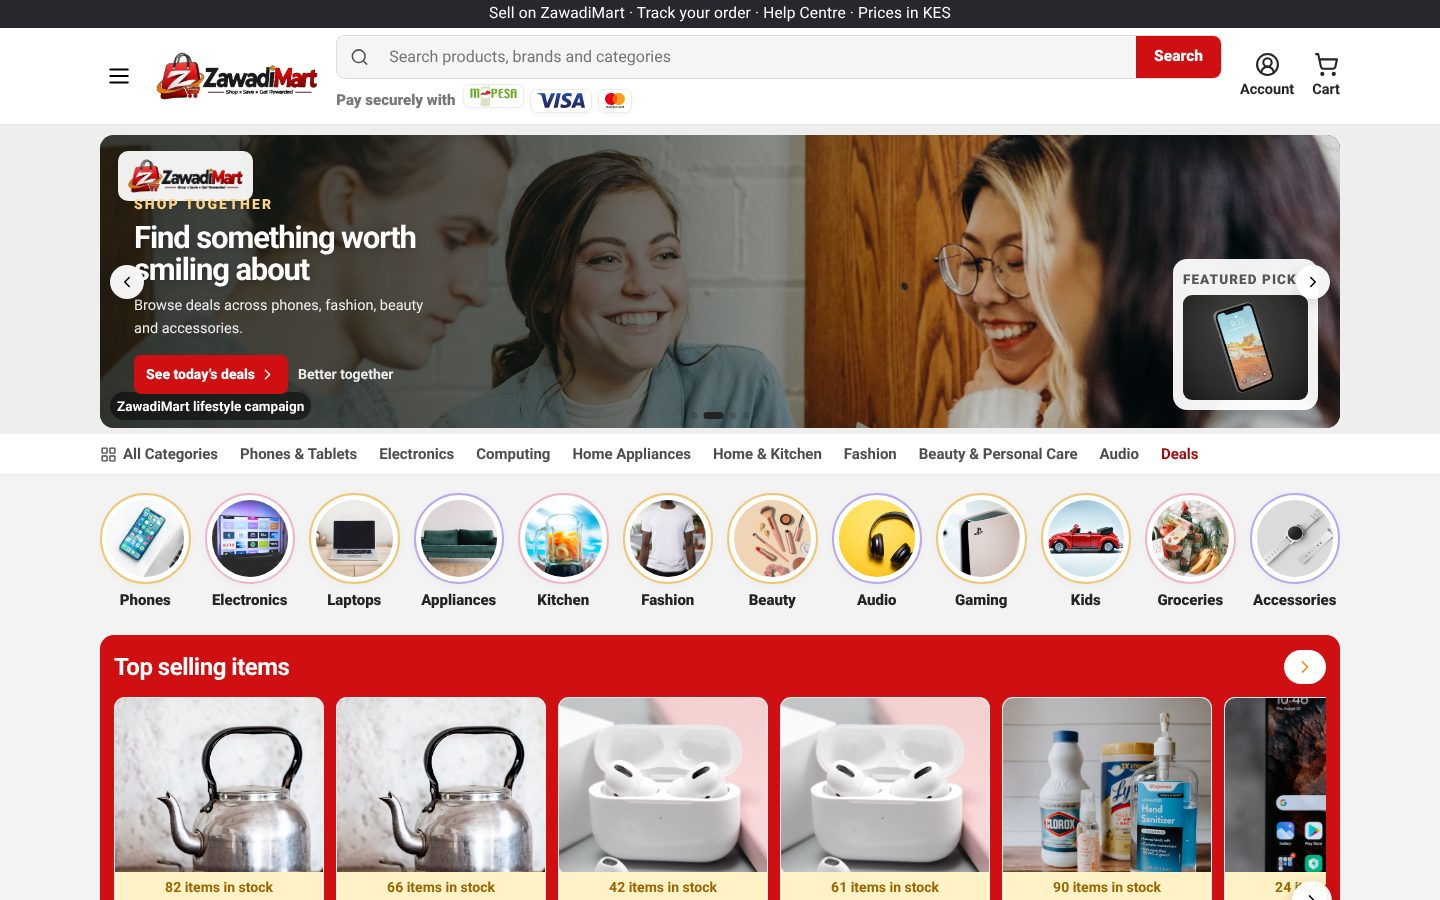
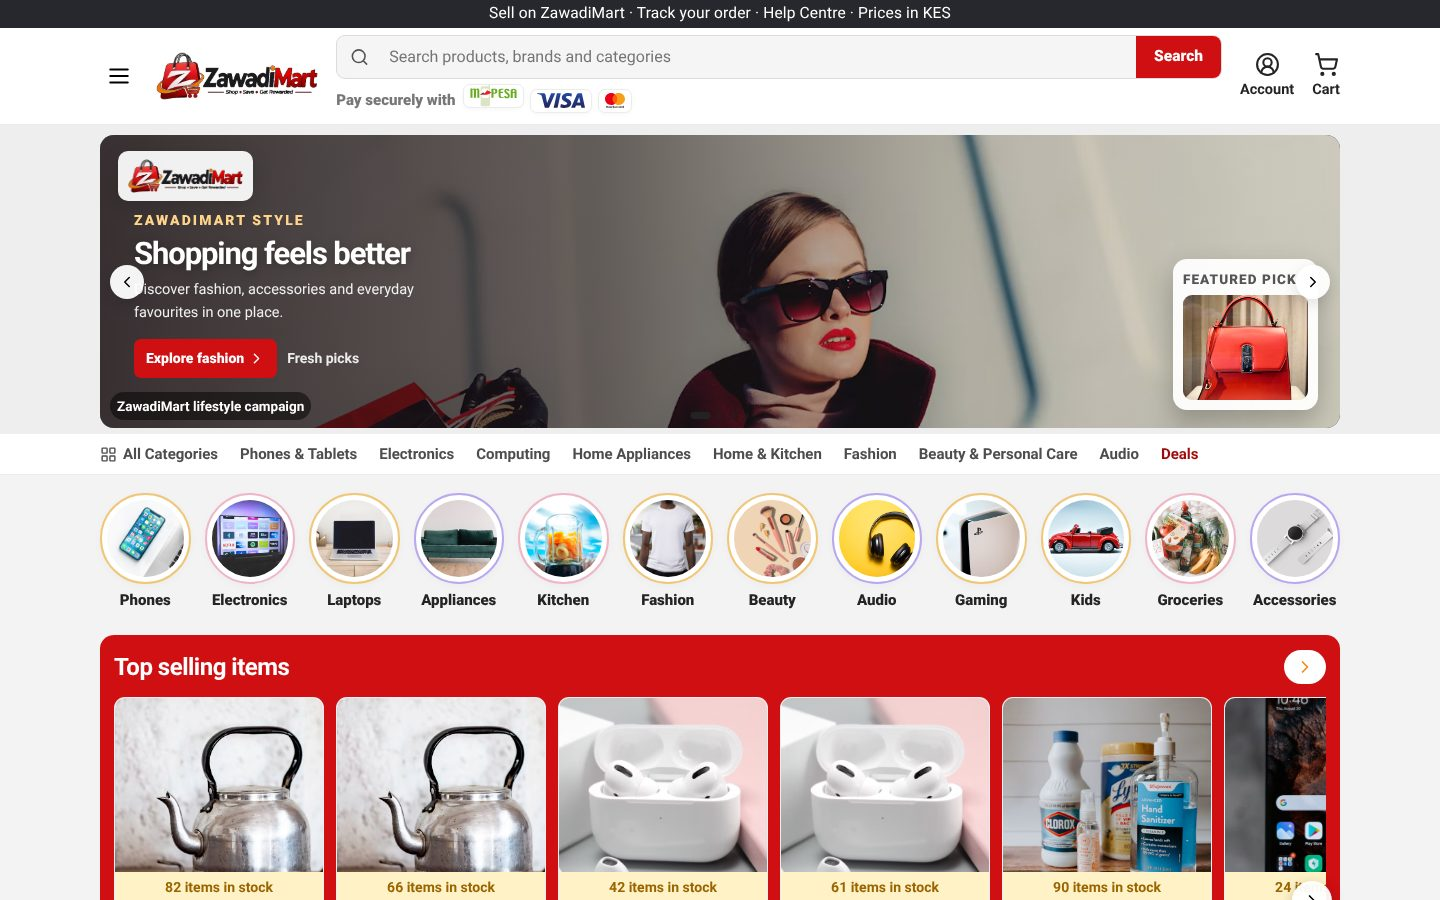
Daily digest needs no secret (GitHub OIDC); recapture ZawadiMart hero (#4)
- The digest workflow now sends GitHub's signed OIDC identity token instead
  of a shared secret. The server verifies the RS256 signature against
  GitHub's published keys and accepts only daily-digest.yml on main of this
  repository, run by schedule or by hand. No secret to set up anywhere;
  DIGEST_TOKEN remains an optional manual alternative.
- Recapture ZawadiMart on the hero's first slide, which is what visitors
  see on arrival (the earlier capture caught a slide mid-transition), under
  new file names so browsers cannot keep showing the cached old images.

Claude-Session: https://claude.ai/code/session_012KxN5P67R4dJoUADYbFazn

Changed region(s): [[0.0625, 0.1244, 0.9375, 0.4978]]

diff --git a/server.js b/server.js
@@ -403,9 +403,57 @@ async function sendNotifications(e) {
 }
 
 
-// Daily sales digest: a morning email listing the leads that need action. An outside scheduler (the GitHub
-// Actions workflow in .github/workflows/daily-digest.yml) calls POST /api/digest with DIGEST_TOKEN; Render's
-// free plan sleeps, so an in-process timer would not fire reliably. Without DIGEST_TOKEN the endpoint is hidden.
+// Daily sales digest: a morning email listing the leads that need action. The GitHub Actions workflow in
+// .github/workflows/daily-digest.yml calls POST /api/digest (Render's free plan sleeps, so an in-process timer
+// would not fire reliably). The caller proves itself with GitHub's signed OIDC token for that workflow on main,
+// so no shared secret has to be set anywhere. An optional DIGEST_TOKEN bearer token also works for manual calls.
+const GH_OIDC_ISSUER = 'https://token.actions.githubusercontent.com';
+const DIGEST_REPO = process.env.DIGEST_GITHUB_REPO || 'silasbarack/baracksilasmungai-';
+const DIGEST_AUDIENCE = 'baracksilasmungai-digest';
+let ghJwks = { at: 0, keys: [] };
+async function githubKey(kid) {
+  const stale = Date.now() - ghJwks.at > 3600000;
+  const missing = !ghJwks.keys.some(k => k.kid === kid) && Date.now() - ghJwks.at > 60000;
+  if (stale || missing) {
+    const r = await fetch(`${GH_OIDC_ISSUER}/.well-known/jwks`, { signal: AbortSignal.timeout(10000) });
+    if (!r.ok) throw new Error(`GitHub JWKS ${r.status}`);
+    ghJwks = { at: Date.now(), keys: (await r.json()).keys || [] };
+  }
+  const jwk = ghJwks.keys.find(k => k.kid === kid);
+  return jwk ? crypto.createPublicKey({ key: jwk, format: 'jwk' }) : null;
+}
+// Returns the token's claims when it is a valid GitHub OIDC token from this repository's digest workflow on main.
+async function verifyDigestOidc(token) {
+  const parts = String(token).split('.');
+  if (parts.length !== 3) return { error: 'not a JWT' };
+  let header, claims;
+  try { header = JSON.parse(Buffer.from(parts[0], 'base64url')); claims = JSON.parse(Buffer.from(parts[1], 'base64url')); } catch { return { error: 'malformed JWT' }; }
+  if (header.alg !== 'RS256') return { error: 'unexpected algorithm' };
+  const key = await githubKey(header.kid);
+  if (!key) return { error: 'unknown signing key' };
+  if (!crypto.verify('RSA-SHA256', Buffer.from(`${parts[0]}.${parts[1]}`), key, Buffer.from(parts[2], 'base64url'))) return { error: 'bad signature' };
+  const now = Date.now() / 1000, aud = [].concat(claims.aud);
+  if (claims.iss !== GH_OIDC_ISSUER) return { error: 'wrong issuer' };
+  if (!aud.includes(DIGEST_AUDIENCE)) return { error: 'wrong audience' };
+  if (!(claims.exp > now) || (claims.nbf && claims.nbf > now + 60)) return { error: 'expired or not yet valid' };
+  if (claims.repository !== DIGEST_REPO || claims.ref !== 'refs/heads/main') return { error: `wrong repository or ref (${claims.repository} ${claims.ref})` };
+  if (!String(claims.workflow_ref || '').startsWith(`${DIGEST_REPO}/.github/workflows/daily-digest.yml@`)) return { error: 'wrong workflow' };
+  if (!['schedule', 'workflow_dispatch'].includes(claims.event_name)) return { error: `wrong event (${claims.event_name})` };
+  return { claims };
+}
+async function digestAuthorized(req) {
+  const supplied = String(req.get('authorization') || '').replace(/^Bearer\s+/i, '');
+  if (!supplied) return false;
+  const expected = process.env.DIGEST_TOKEN || '';
+  if (expected) {
+    const a = Buffer.from(supplied), b = Buffer.from(expected);
+    if (a.length === b.length && crypto.timingSafeEqual(a,b)) return true;
+  }
+  if (supplied.split('.').length !== 3) return false;
+  const v = await verifyDigestOidc(supplied);
+  if (v.error) console.warn(`Sales digest call refused: ${v.error}.`);
+  return !v.error;
+}
 const DIGEST_TZ_OFFSET_HOURS = 3; // East Africa Time (UTC+3), no daylight saving.
 const eatDate = (d = new Date()) => new Date(d.getTime() + DIGEST_TZ_OFFSET_HOURS * 3600000).toISOString().slice(0,10);
 function digestItems(list, now = new Date()) {
@@ -449,10 +497,8 @@ async function markDigestSent(day) {
 }
 app.post('/api/digest', async (req,res,next) => {
   try {
-    const expected = process.env.DIGEST_TOKEN || '';
-    const supplied = String(req.get('authorization') || '').replace(/^Bearer\s+/i, '');
-    const a = Buffer.from(supplied), b = Buffer.from(expected);
-    if (!expected || a.length !== b.length || !crypto.timingSafeEqual(a,b)) return res.status(404).json({ok:false});
+    if (!rateLimit(`digest:${req.ip || 'unknown'}`, 20, 60 * 60 * 1000)) return res.status(429).json({ok:false});
+    if (!await digestAuthorized(req)) return res.status(404).json({ok:false});
     if (!OWNER_EMAIL || !mailProvider()) return res.status(503).json({ok:false,error:'Email is not configured (OWNER_EMAIL and RESEND_API_KEY or SMTP).'});
     const force = String(req.query.force || '') === '1', quiet = String(req.query.quiet || '') === '1', day = eatDate();
     if (!force && await digestSentOn() === day) return res.json({ok:true,sent:false,reason:'already sent today'});

diff --git a/SALES_PLAYBOOK.md b/SALES_PLAYBOOK.md
@@ -83,11 +83,8 @@ Every Monday to Saturday at about 06:47 EAT, the digest emails `OWNER_EMAIL` wit
 
 A GitHub Actions workflow (`.github/workflows/daily-digest.yml`) sends it. It calls `POST /api/digest`, which also wakes the sleeping free Render instance. The server sends at most one digest per day, even if the job retries.
 
-**One-time setup**
+**Setup:** none. The workflow proves who it is with GitHub's signed OIDC identity token, so there is no shared secret to create or copy. The server accepts only a token GitHub issued to `daily-digest.yml` on `main` of this repository. A fork, another branch, another workflow or a pull request run is refused. Emails go to `OWNER_EMAIL` through the email provider the site already uses for enquiry notifications.
 
-1. Create a long random token, for example with `openssl rand -hex 32`.
-2. In Render, open the service, go to **Environment**, and add `DIGEST_TOKEN` with that value. Email must already be working, which needs `OWNER_EMAIL` plus `RESEND_API_KEY` or SMTP.
-3. In GitHub, go to the repository's **Settings → Secrets and variables → Actions → New repository secret** and add `DIGEST_TOKEN` with the same value.
-4. Test it: in GitHub, open **Actions → Daily sales digest → Run workflow**, tick *force*, and run it. The email should arrive within a few minutes.
+**Run it now:** in GitHub, open **Actions → Daily sales digest → Run workflow**, tick *force*, and run it. If a run fails with "refused", look for `Sales digest call refused:` in the Render logs, which names the reason.
 
-Optional: change the time by editing the `cron` line in the workflow. It is in UTC, so 03:47 UTC is 06:47 EAT. Add `quiet=1` to the URL to skip the email on days with nothing to act on.
+**Optional:** change the time by editing the `cron` line in the workflow. It is in UTC, so 03:47 UTC is 06:47 EAT. Add `quiet=1` to the URL in the workflow to skip the email on days with nothing to act on. For calls from outside GitHub, you can also set a `DIGEST_TOKEN` environment variable in Render and send it as `Authorization: Bearer <token>`.
